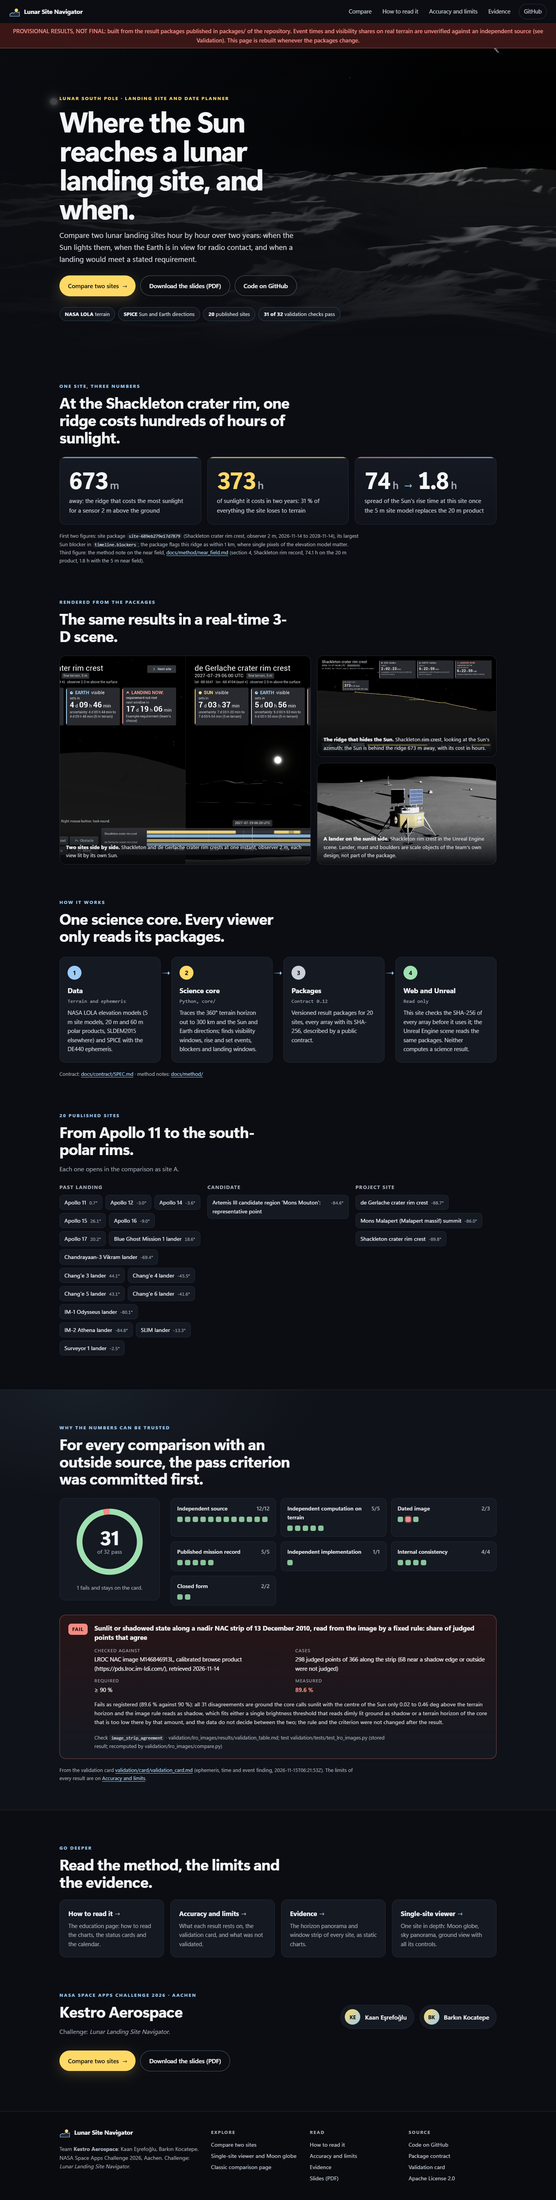
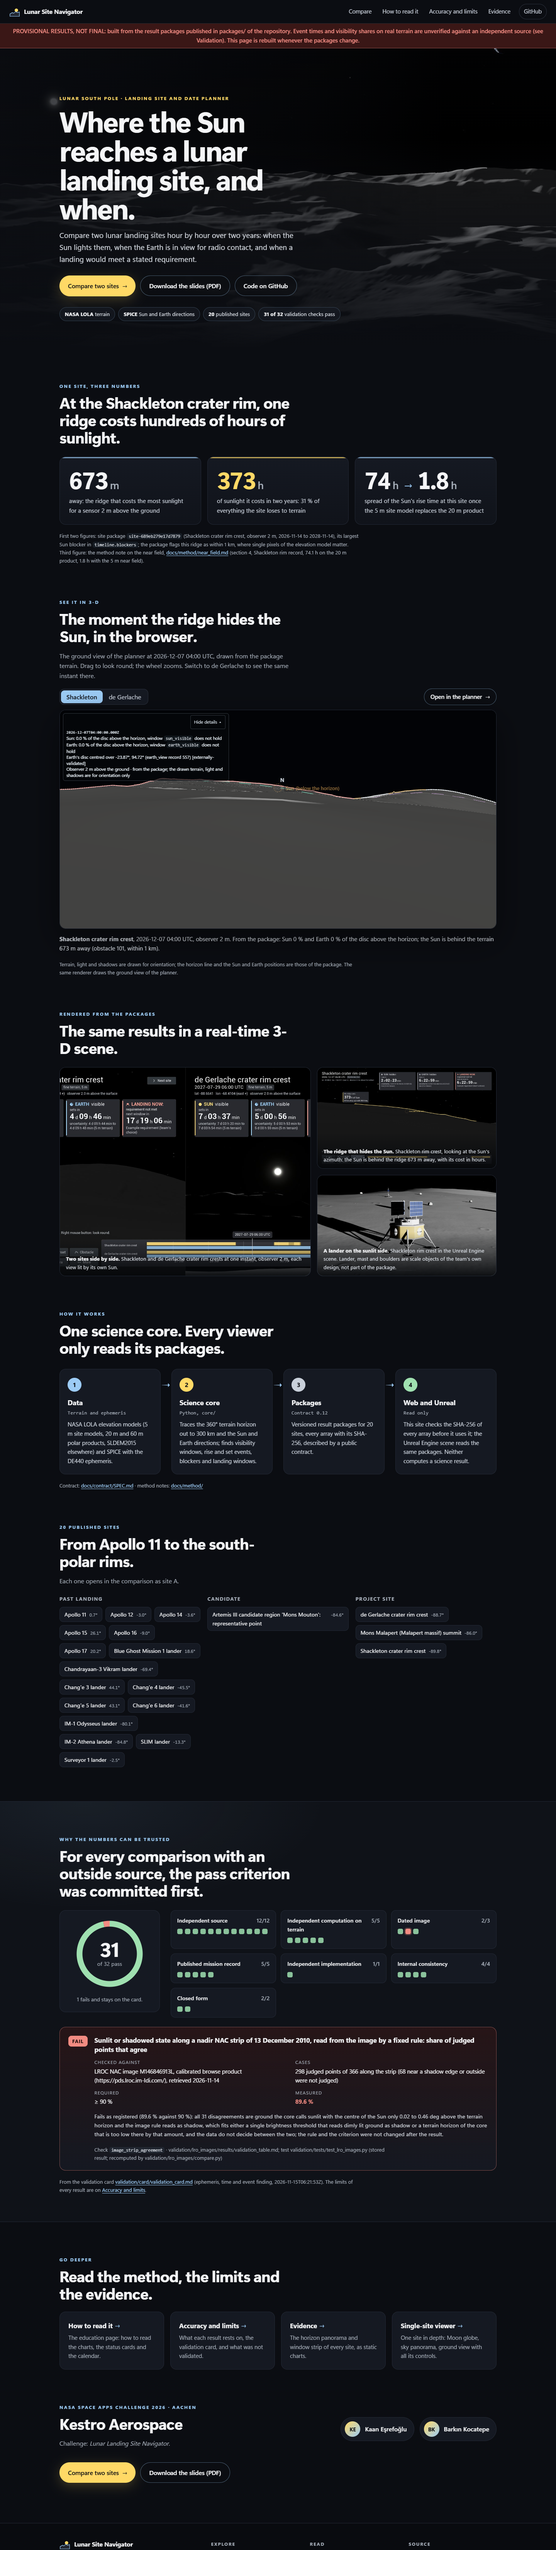
Landing: live 3-D ground view of the Shackleton rim at the moment the ridge hides the Sun
A section after the key figures shows the ground view of the planner at 2026-12-07 04:00 UTC,
observer 2 m, with a switch to de Gerlache rim crest at the same instant and a link that opens
the planner there. web/viewer/js/ground-scene.js runs the steps of a comparison pane (site
package with its checks, nearest sample, Sun and Earth series, terrain patches, direction table)
and view3d.js draws it; the caption prints the package values, including the Sun blocker of
timeline.blockers at that sample. The module, three.js and the packages load only when the
section nears the screen. Tests, notes and screenshots updated.

diff --git a/web/app/src/landing/GroundView.tsx b/web/app/src/landing/GroundView.tsx
@@ -1,0 +1,112 @@
+import { useEffect, useRef, useState } from "react";
+import { SectionHead } from "../components/Actions";
+import { useInView } from "../components/useInView";
+import { percent } from "../site/format";
+import { at } from "../site/links";
+import stillRidge from "../assets/c_key_moment_near_ridge.jpg";
+
+// "See it in 3-D": the live ground view of the viewers (web/viewer/js/view3d.js, through
+// ground-scene.js) at one instant, loaded from the published viewer/ folder only when the section
+// comes near the screen, so the top of the page stays light. Every value in the caption is
+// returned by the package lookup; this file only formats it.
+
+const INSTANT = "2026-12-07T04:00:00Z";
+const HEIGHT_M = 2;
+const SITES = [
+  { id: "shackleton-rim-crest", label: "Shackleton" },
+  { id: "de-gerlache-rim-crest", label: "de Gerlache" },
+] as const;
+type SiteId = (typeof SITES)[number]["id"];
+
+const SCENE_MODULE = at("viewer/js/ground-scene.js");
+
+/** What ground-scene.js reports for the drawn site and sample. */
+interface Shown {
+  siteId: string; name: string; packageId: string; h: number; i: number; utc: string;
+  sunFraction: number | null; earthFraction: number | null;
+  sunBlocker: { obstacleId: number; distanceM: number; nearField: boolean } | null;
+}
+interface GroundScene { show(request: { siteId: string; heightM: number; utc: string }): Promise<Shown> }
+interface GroundSceneModule { createGroundScene(container: HTMLElement): Promise<GroundScene> }
+
+type State = { phase: "waiting" | "loading" } | { phase: "shown"; shown: Shown } | { phase: "failed"; message: string };
+
+function plannerLink(i: number | null): string {
+  const q = new URLSearchParams({ a: SITES[0].id, b: SITES[1].id, ha: "2", hb: "2", view: "ground" });
+  if (i !== null) q.set("i", String(i));
+  return at(`compare/?${q}`);
+}
+
+function Caption({ shown }: { shown: Shown }) {
+  const share = (x: number | null) => (x === null ? "n/a" : percent(x, 0));
+  const b = shown.sunBlocker;
+  return (
+    <p className="g3d-caption">
+      <strong>{shown.name}</strong>, {shown.utc.slice(0, 16).replace("T", " ")} UTC, observer {HEIGHT_M} m.
+      {" "}From the package: Sun {share(shown.sunFraction)} and Earth {share(shown.earthFraction)} of the disc above the horizon
+      {b ? <>; the Sun is behind the terrain {Math.round(b.distanceM)} m away (obstacle {b.obstacleId}{b.nearField ? ", within 1 km" : ""})</> : null}.
+    </p>
+  );
+}
+
+export function GroundView() {
+  const section = useRef<HTMLElement>(null);
+  const canvas = useRef<HTMLDivElement>(null);
+  const scene = useRef<Promise<GroundScene> | null>(null);
+  const near = useInView(section);
+  const [siteId, setSiteId] = useState<SiteId>(SITES[0].id);
+  const [state, setState] = useState<State>({ phase: "waiting" });
+
+  // A link to #see-3d: the page is drawn after the browser looked for the anchor, so scroll here.
+  useEffect(() => {
+    if (location.hash === "#see-3d") section.current?.scrollIntoView();
+  }, []);
+
+  useEffect(() => {
+    if (!near || !canvas.current) return;
+    let live = true;
+    setState((s) => (s.phase === "shown" ? s : { phase: "loading" }));
+    scene.current ??= (import(/* @vite-ignore */ SCENE_MODULE) as Promise<GroundSceneModule>)
+      .then((m) => m.createGroundScene(canvas.current!));
+    scene.current
+      .then((s) => s.show({ siteId, heightM: HEIGHT_M, utc: INSTANT }))
+      .then((shown) => { if (live) setState({ phase: "shown", shown }); })
+      .catch((e: unknown) => { if (live) setState({ phase: "failed", message: e instanceof Error ? e.message : String(e) }); });
+    return () => { live = false; };
+  }, [near, siteId]);
+
+  const shown = state.phase === "shown" ? state.shown : null;
+  return (
+    <section ref={section} className="section wrap g3d" id="see-3d" aria-labelledby="g3d-h">
+      <SectionHead id="g3d-h" eyebrow="See it in 3-D" title="The moment the ridge hides the Sun, in the browser." />
+      <p className="muted g3d-lead">
+        The ground view of the planner at {INSTANT.slice(0, 16).replace("T", " ")} UTC, drawn from the package terrain.
+        Drag to look round; the wheel zooms. Switch to de Gerlache to see the same instant there.
+      </p>
+      <div className="g3d-bar">
+        <div className="segmented" role="group" aria-label="Site">
+          {SITES.map((s) => (
+            <button key={s.id} type="button" aria-pressed={siteId === s.id} onClick={() => setSiteId(s.id)}>{s.label}</button>
+          ))}
+        </div>
+        <a className="btn btn-ghost btn-small" href={plannerLink(shown ? shown.i : null)}>Open in the planner <span aria-hidden="true">→</span></a>
+      </div>
+      <div className="g3d-frame">
+        <div ref={canvas} className="view3d g3d-view" aria-label="Interactive ground view" />
+        {state.phase !== "shown" && state.phase !== "failed" && (
+          <div className="g3d-overlay"><p className="loading-status">{state.phase === "loading" ? "Loading the site package and its terrain…" : "The 3-D view loads when you get here."}</p></div>
+        )}
+        {state.phase === "failed" && (
+          <div className="g3d-overlay g3d-failed" style={{ backgroundImage: `url(${stillRidge})` }}>
+            <p>The live view could not start here ({state.message}). This is the same moment rendered in the Unreal scene.</p>
+          </div>
+        )}
+      </div>
+      {shown ? <Caption shown={shown} /> : <p className="g3d-caption muted">Observer {HEIGHT_M} m above the ground. Values appear once the package is loaded.</p>}
+      <p className="source">
+        Terrain, light and shadows are drawn for orientation; the horizon line and the Sun and Earth positions are those of the
+        package. The same renderer draws the ground view of the planner.
+      </p>
+    </section>
+  );
+}

diff --git a/web/viewer/js/ground-scene.js b/web/viewer/js/ground-scene.js
@@ -1,0 +1,58 @@
+// One ground view of a published site at a stated instant, for a page that shows it on its own
+// (the landing page of the site). The steps are those of a comparison pane in compare.js: the
+// index and the site package (checked as always), the sample of the package nearest to the
+// instant, the Sun and Earth series of the observer height, the terrain patches and the
+// direction-table record (ground.js), drawn by the renderer of the viewers (view3d.js).
+// Nothing is computed here; the view only looks values up.
+
+import { loadIndex, loadSite, PackageError } from "./package.js";
+import { containing, etOfUtc, loadSiteData, nearestSample, sampleEt, sampleUtc, siteFileUrl } from "./panel.js";
+import { groundData, groundInput } from "./ground.js";
+
+// A ground view in `container` that can show several sites in turn (one renderer; each site
+// and its arrays are loaded once). Throws if WebGL is not available.
+export async function createGroundScene(container, { indexUrl = siteFileUrl("packages/index.json"), onCheck } = {}) {
+  const view3dModule = await import("./view3d.js");
+  const view = view3dModule.createView(container, { onCheck });
+  const index = await loadIndex(indexUrl);
+  const tables = {}, loaded = {};
+
+  async function load(siteId, heightM) {
+    const key = `${siteId}@${heightM}`;
+    if (!loaded[key]) {
+      loaded[key] = (async () => {
+        const entry = index.sites.find((s) => s.site_id === siteId);
+        if (!entry) throw new PackageError(`site ${siteId} is not in the index`);
+        const site = await loadSite(index.base, entry);
+        const h = site.manifest.horizon.observer_heights_m.indexOf(heightM);
+        if (h < 0) throw new PackageError(`${siteId} has no observer height of ${heightM} m`);
+        const [data, g] = await Promise.all([loadSiteData(site, h), groundData(site, index, tables)]);
+        return { site, h, data, g };
+      })();
+    }
+    return loaded[key];
+  }
+
+  return {
+    // Show site `siteId` at observer height `heightM` (metres) at the package sample nearest to
+    // `utc`. Returns what was drawn: the sample, its UTC label, and the package's Sun and Earth
+    // shares of the disc above the horizon at that sample.
+    async show({ siteId, heightM, utc }) {
+      const { site, h, data, g } = await load(siteId, heightM);
+      const i = nearestSample(site, etOfUtc(site, Date.parse(utc)));
+      view.update(groundInput({ site, h, i, data, g, view3dModule }));
+      // The package's Sun blocker whose intervals hold this sample (timeline.blockers), if any.
+      const et = sampleEt(site, i);
+      const blocker = (site.manifest.timeline.blockers || [])
+        .find((b) => b.body === "SUN" && b.height_index === h && containing(b.intervals_et_s, et) >= 0) || null;
+      return {
+        siteId, name: site.manifest.site.name, packageId: site.id, h, i, utc: sampleUtc(site, i),
+        sunFraction: data.series.SUN ? data.series.SUN.fraction[i] : null,
+        earthFraction: data.series.EARTH ? data.series.EARTH.fraction[i] : null,
+        sunBlocker: blocker && { obstacleId: blocker.obstacle_id, distanceM: blocker.peak_distance_m, nearField: Boolean(blocker.near_field) },
+        terrainCheck: view.terrainCheck(),
+      };
+    },
+    command: (id) => view.command(id),
+  };
+}

diff --git a/web/app/src/styles.css b/web/app/src/styles.css
@@ -64,6 +64,12 @@ img { max-width: 100%; }
 .eyebrow { margin: 0 0 10px; color: var(--earth); font-size: 0.78rem; font-weight: 650; letter-spacing: 0.16em; text-transform: uppercase; }
 .eyebrow.sun { color: var(--sun); }
 
+/* Segmented control (view switch of the comparison, site switch of the 3-D view) */
+.segmented { display: inline-flex; flex-wrap: wrap; gap: 2px; padding: 3px; border-radius: 12px; background: var(--surface); border: 1px solid var(--line); }
+.segmented button { border: 0; background: transparent; min-height: 32px; padding: 4px 14px; border-radius: 9px; color: #c9d0da; }
+.segmented button:hover:not(:disabled) { background: var(--surface-2); border: 0; }
+.segmented button[aria-pressed="true"] { background: var(--earth); color: #0b0d12; font-weight: 600; }
+
 /* Landing: hero */
 .hero-l { position: relative; min-height: min(86vh, 760px); display: flex; align-items: flex-end; background: #05070a center 62% / cover no-repeat; overflow: hidden; }
 .hero-shade { position: absolute; inset: 0; background:
@@ -179,3 +185,24 @@ img { max-width: 100%; }
 .foot li a { color: #c9d0da; text-decoration: none; }
 .foot li a:hover { color: var(--earth); text-decoration: underline; }
 @media (max-width: 860px) { .foot-in { grid-template-columns: 1fr 1fr; padding: 32px 16px 40px; } .foot-in > div:first-child { grid-column: 1 / -1; } }
+
+/* Landing: the viewer stylesheet is loaded first for the 3-D view; keep the page full width. */
+main.landing { max-width: none; margin: 0; padding: 0; }
+
+/* Landing: "See it in 3-D" */
+.g3d { scroll-margin-top: 64px; }
+.g3d-lead { max-width: 70ch; }
+.g3d-bar { display: flex; flex-wrap: wrap; align-items: center; justify-content: space-between; gap: 12px; margin: 20px 0 12px; }
+.btn-small { padding: 9px 16px; font-size: 0.92rem; }
+.g3d-frame { position: relative; border-radius: var(--radius); overflow: hidden; border: 1px solid var(--line-2); background: #05070a; box-shadow: 0 30px 80px rgba(0, 0, 0, 0.45); }
+.g3d-view.view3d { aspect-ratio: 16 / 8; min-height: 300px; max-height: 72vh; border: 0; border-radius: 0; }
+.g3d-overlay { position: absolute; inset: 0; display: grid; place-items: center; padding: 20px; text-align: center; background: radial-gradient(600px 300px at 50% 40%, rgba(156, 203, 245, 0.08), transparent 70%), #05070a; }
+.g3d-failed { background: #05070a center / cover no-repeat; align-items: end; }
+.g3d-failed p { margin: 0; padding: 10px 14px; border-radius: 10px; background: rgba(5, 7, 10, 0.8); color: #d6dbe2; font-size: 0.9rem; }
+.g3d-caption { margin: 14px 0 0; color: #d6dbe2; font-size: 0.95rem; }
+@media (max-width: 600px) {
+  .g3d-view.view3d { aspect-ratio: 4 / 3.4; min-height: 0; max-height: 58vh; }
+  .g3d-bar .segmented { width: 100%; }
+  .g3d-bar .segmented button { flex: 1 1 45%; }
+  .g3d-bar .btn-small { width: 100%; justify-content: center; }
+}

diff --git a/web/app/src/compare.css b/web/app/src/compare.css
@@ -18,10 +18,6 @@
 .tb-steps #slider { flex: 1 1 auto; min-width: 80px; }
 .cmp #utc { font-size: 1.05rem; font-weight: 600; min-width: 13ch; font-variant-numeric: tabular-nums; }
 .tb-label { color: var(--muted); font-size: 0.82rem; text-transform: uppercase; letter-spacing: 0.1em; }
-.segmented { display: inline-flex; flex-wrap: wrap; gap: 2px; padding: 3px; border-radius: 12px; background: var(--surface); border: 1px solid var(--line); }
-.segmented button { border: 0; background: transparent; min-height: 32px; padding: 4px 14px; border-radius: 9px; color: #c9d0da; }
-.segmented button:hover:not(:disabled) { background: var(--surface-2); border: 0; }
-.segmented button[aria-pressed="true"] { background: var(--earth); color: #0b0d12; font-weight: 600; }
 .cmp details.more-controls > summary { margin: 4px 0; }
 .cmp details.more-controls label { display: inline-flex; gap: 6px; align-items: center; color: #c9d0da; font-size: 0.9rem; }
 @media (max-width: 900px) { .cmp .timebar { position: sticky; top: 60px; } }

diff --git a/web/app/src/components/useInView.ts b/web/app/src/components/useInView.ts
@@ -1,0 +1,17 @@
+import { useEffect, useState, type RefObject } from "react";
+
+/** True once the element has come within `margin` of the viewport (and stays true). */
+export function useInView(ref: RefObject<Element>, margin = "300px"): boolean {
+  const [seen, setSeen] = useState(false);
+  useEffect(() => {
+    const el = ref.current;
+    if (!el || seen) return;
+    if (!("IntersectionObserver" in window)) { setSeen(true); return; }
+    const observer = new IntersectionObserver((entries) => {
+      if (entries.some((e) => e.isIntersecting)) { setSeen(true); observer.disconnect(); }
+    }, { rootMargin: margin });
+    observer.observe(el);
+    return () => observer.disconnect();
+  }, [ref, margin, seen]);
+  return seen;
+}

diff --git a/web/app/index.html b/web/app/index.html
@@ -6,6 +6,7 @@
 <meta name="color-scheme" content="dark">
 <meta name="theme-color" content="#0b0d12">
 <title>Lunar Site Navigator · compare lunar landing sites hour by hour</title>
+<script type="importmap">{ "imports": { "three": "./viewer/vendor/three/three.module.js" } }</script>
 <meta name="description" content="Compare two lunar landing sites hour by hour over two years: when the Sun lights them, when the Earth is in view, and when a landing meets a stated requirement. NASA Space Apps Challenge 2026, team Kestro Aerospace.">
 </head>
 <body>

diff --git a/web/app/src/landing/Landing.tsx b/web/app/src/landing/Landing.tsx
@@ -1,4 +1,5 @@
 import { ReadMore, Team } from "./Closing";
+import { GroundView } from "./GroundView";
 import { Hero } from "./Hero";
 import { HowItWorks } from "./HowItWorks";
 import { KeyFigures } from "./KeyFigures";
@@ -12,6 +13,7 @@ export function Landing() {
     <main className="landing">
       <Hero />
       <KeyFigures />
+      <GroundView />
       <Stills />
       <HowItWorks />
       <SiteList />

diff --git a/web/app/src/main-landing.tsx b/web/app/src/main-landing.tsx
@@ -2,6 +2,8 @@ import { StrictMode } from "react";
 import { createRoot } from "react-dom/client";
 import { Shell } from "./components/Shell";
 import { Landing } from "./landing/Landing";
+// The stylesheet of the viewer modules (for the 3-D ground view), then the look of this site.
+import "../../viewer/viewer.css";
 import "./styles.css";
 
 createRoot(document.getElementById("root")!).render(

diff --git a/web/tests/test_app.py b/web/tests/test_app.py
@@ -149,6 +149,42 @@ class ComparePageRunsTheClassicModule(unittest.TestCase):
             self.assertIn(f"node_modules/{dep}", lock["packages"], dep)
 
 
+class LandingGroundView(unittest.TestCase):
+    """The "See it in 3-D" section of the landing page draws with the viewers' renderer."""
+
+    def setUp(self):
+        self.tsx = (APP_SRC / "src" / "landing" / "GroundView.tsx").read_text(encoding="utf-8")
+        self.scene = (WEB / "viewer" / "js" / "ground-scene.js").read_text(encoding="utf-8")
+
+    def test_section_follows_the_key_figures(self):
+        landing = (APP_SRC / "src" / "landing" / "Landing.tsx").read_text(encoding="utf-8")
+        self.assertLess(landing.index("<KeyFigures />"), landing.index("<GroundView />"))
+        self.assertLess(landing.index("<GroundView />"), landing.index("<Stills />"))
+
+    def test_scene_is_loaded_at_run_time_only_when_near_the_screen(self):
+        self.assertIn('at("viewer/js/ground-scene.js")', self.tsx)
+        self.assertIn("useInView(section)", self.tsx)
+        self.assertLess(self.tsx.index("if (!near"), self.tsx.index("import(/* @vite-ignore */ SCENE_MODULE)"))
+
+    def test_instant_sites_height_and_planner_link(self):
+        self.assertIn('const INSTANT = "2026-12-07T04:00:00Z"', self.tsx)
+        self.assertIn("const HEIGHT_M = 2;", self.tsx)
+        for site_id in ("shackleton-rim-crest", "de-gerlache-rim-crest"):
+            self.assertIn(f'id: "{site_id}"', self.tsx)
+        self.assertIn('a: SITES[0].id, b: SITES[1].id, ha: "2", hb: "2", view: "ground"', self.tsx)
+        self.assertIn('q.set("i", String(i))', self.tsx)
+
+    def test_scene_uses_the_steps_of_a_comparison_pane(self):
+        # Same loaders, lookups and renderer as a pane of compare.js; nothing of its own.
+        for name in ("loadIndex(", "loadSite(", "nearestSample(", "loadSiteData(", "groundData(", "groundInput(",
+                     'import("./view3d.js")', "createView("):
+            self.assertIn(name, self.scene, name)
+        self.assertIsNone(NUMERIC.search(self.scene))
+        compare = (WEB / "viewer" / "js" / "compare.js").read_text(encoding="utf-8")
+        for name in ("groundData(", "groundInput(", "createView("):
+            self.assertIn(name, compare, name)
+
+
 @unittest.skipUnless((APP_DIST / "index.html").is_file(), "web/app is not built (npm run build)")
 class BuiltAppTests(unittest.TestCase):
     def test_build_has_the_layout_the_site_build_expects(self):
@@ -167,10 +203,13 @@ class BuiltAppTests(unittest.TestCase):
 
     def test_import_map_comes_before_any_module_script(self):
         # three.js of viewer/vendor is resolved through the import map, as on the classic page;
-        # a browser ignores an import map that follows a module script.
-        html = (APP_DIST / "compare" / "index.html").read_text(encoding="utf-8")
-        self.assertIn('"three": "../viewer/vendor/three/three.module.js"', html)
-        self.assertLess(html.index('type="importmap"'), html.index('type="module"'))
+        # a browser ignores an import map that follows a module script. The landing page needs
+        # it for the 3-D section.
+        for page, path in (("compare/index.html", "../viewer/vendor/three/three.module.js"),
+                           ("index.html", "./viewer/vendor/three/three.module.js")):
+            html = (APP_DIST / page).read_text(encoding="utf-8")
+            self.assertIn(f'"three": "{path}"', html, page)
+            self.assertLess(html.index('type="importmap"'), html.index('type="module"'), page)
 
     def test_compare_bundle_carries_the_classic_pane_template(self):
         classic = (WEB / "viewer" / "compare.html").read_text(encoding="utf-8")

diff --git a/web/app/README.md b/web/app/README.md
@@ -16,6 +16,7 @@ cd .. && python -m lsn_web.site   # copies dist/ to the site root, next to every
 | Page | Source | Data | When it is read |
 |---|---|---|---|
 | `index.html` (landing) | `src/landing/` | Shackleton figures, the list of sites, the validation card | at build time, by `plugins/facts.ts` |
+| `index.html`, section "See it in 3-D" | `src/landing/GroundView.tsx` | the Shackleton and de Gerlache rim packages, terrain patches, direction table | at run time, by `web/viewer/js/ground-scene.js`, when the section nears the screen |
 | `compare/index.html` | `src/compare/` | the site packages, summaries, pair package, notice | at run time, by `web/viewer/js/compare.js` |
 | both | `src/components/`, `src/site/` | `notice.json` (banner) | at run time |
 
@@ -23,10 +24,12 @@ cd .. && python -m lsn_web.site   # copies dist/ to the site root, next to every
 
 **Comparison.** The page does not reimplement the comparison. `src/compare/ComparePage.tsx` lays out the elements of the classic page (same ids and `data-role`s) and `useClassicCompare` loads `viewer/js/compare.js` from the published `viewer/` folder with a run-time `import()`. That one module, unchanged and shared with `classic.html`, loads the index, the summaries and the two site packages with their SHA-256 checks and fills the status cards, the horizon chart, the sky panorama, the ground view (`view3d.js`, three.js from `viewer/vendor` through the import map in `compare/index.html`), the calendar and the pair table. The per-pane template is not copied either: `plugins/classic.ts` reads `<template id="pane-template">` from `web/viewer/compare.html` at build time (`virtual:lsn-classic`). For the same address both pages therefore show the same numbers; this was checked in a browser by comparing the HTML of both panes, the pair table and the time readout between `classic.html` and `compare/` for two site pairs (identical), and `test_app.py` checks that every element the module looks up exists on the React page.
 
+**3-D section of the landing page.** Right after the key figures, the landing page shows the live ground view of the planner at 2026-12-07 04:00 UTC, observer 2 m: at Shackleton rim crest the package gives the Sun as hidden behind the terrain 673 m away; a switch shows de Gerlache rim crest at the same instant. `web/viewer/js/ground-scene.js` runs the steps of a comparison pane (site package with its checks, nearest sample, `loadSiteData`, `groundData`, `groundInput`, `view3d.createView`) and returns the package values the caption prints, including the Sun blocker of `timeline.blockers` that holds that sample. The module, three.js and the packages are fetched only when the section comes within 300 px of the screen (`useInView`), so the top of the page stays light; the landing page carries the import map for three.js. "Open in the planner" opens `compare/` with both sites, 2 m and the ground view at the same sample. Without WebGL the section shows the Unreal render of the same moment and says why.
+
 ## Layout of the source
 
 ```
-index.html, compare/index.html   page shells (Vite entries); the compare page holds the import map for three.js
+index.html, compare/index.html   page shells (Vite entries); both hold the import map for three.js
 plugins/facts.ts                 build-time facts of the landing page (virtual:lsn-facts)
 plugins/classic.ts               build-time pane template of the classic page (virtual:lsn-classic)
 src/main-landing.tsx             entry of the landing page
@@ -35,8 +38,8 @@ src/site/links.ts                site and repository addresses, the shared link 
 src/site/notice.ts               notice.json of the site build (banner)
 src/site/facts.ts                typed access to virtual:lsn-facts
 src/site/format.ts               rounding and units for display
-src/components/                  Shell (frame of every page), Nav, Footer, Mark, Actions, SectionHead
-src/landing/                     one component per landing section (Hero, KeyFigures, Stills, HowItWorks, SiteList, Trust, Closing)
+src/components/                  Shell (frame of every page), Nav, Footer, Mark, Actions, SectionHead, useInView
+src/landing/                     one component per landing section (Hero, KeyFigures, GroundView, Stills, HowItWorks, SiteList, Trust, Closing)
 src/compare/                     ComparePage, TimeBar, useClassicCompare
 src/styles.css, src/compare.css  palette (background #0b0d12, Sun #ffd966, Earth #9ccbf5, failure #f28b82) and layout
 src/assets/                      three Unreal renders scaled to 1600 px (originals in docs/unreal/pitch/)

diff --git a/docs/web/react/README.md b/docs/web/react/README.md
@@ -3,8 +3,9 @@
 Taken on 15 November 2026 from the site built by `python -m lsn_web.site` with the React build, served locally under `/lunar-site-navigator/`.
 
 - `landing_desktop.png`: landing page, whole page, 1440 px wide.
+- `landing_desktop_ground_view_3d.png`: the "See it in 3-D" section of the landing page at 1440 px: the live ground view of Shackleton rim crest at 2026-12-07 04:00 UTC, observer 2 m (cut from the whole-page picture).
 - `compare_desktop.png`: comparison page, default pair (Shackleton and de Gerlache crater rim crests), horizon chart, 1440 px wide.
 - `compare_desktop_ground_view.png`: the same with the ground view of both panes.
-- `landing_phone_390_1_hero.jpg`, `landing_phone_390_2_figures.jpg`, `landing_phone_390_3_failed_check.jpg`: landing page at 390 px.
+- `landing_phone_390_1_hero.jpg`, `landing_phone_390_2_figures.jpg`, `landing_phone_390_3_failed_check.jpg`, `landing_phone_390_4_ground_view_3d.jpg`: landing page at 390 px (the last one: the 3-D section).
 - `compare_phone_390_1_top.jpg`, `compare_phone_390_2_pane.jpg`: comparison page at 390 px.
 - `viewer_globe_desktop.png`: the Moon globe of the single-site viewer at 1440 px; on a desktop it shows the 8K copy of the NASA SVS colour map (see `web/viewer/vendor/moon/HD_TEXTURES.md`).
